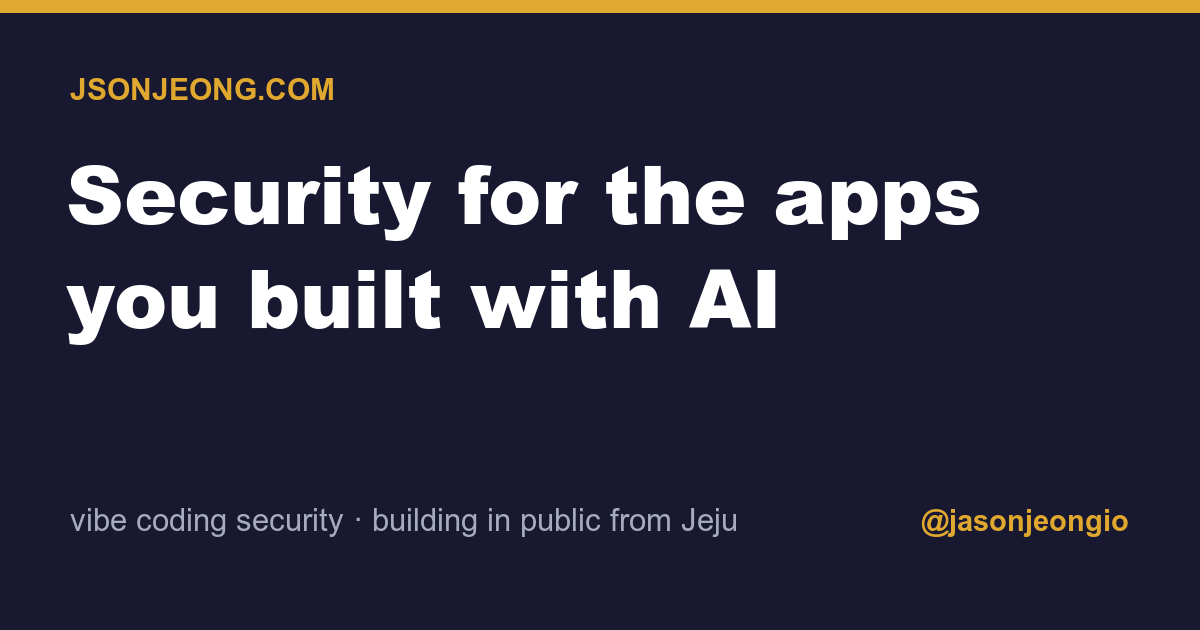
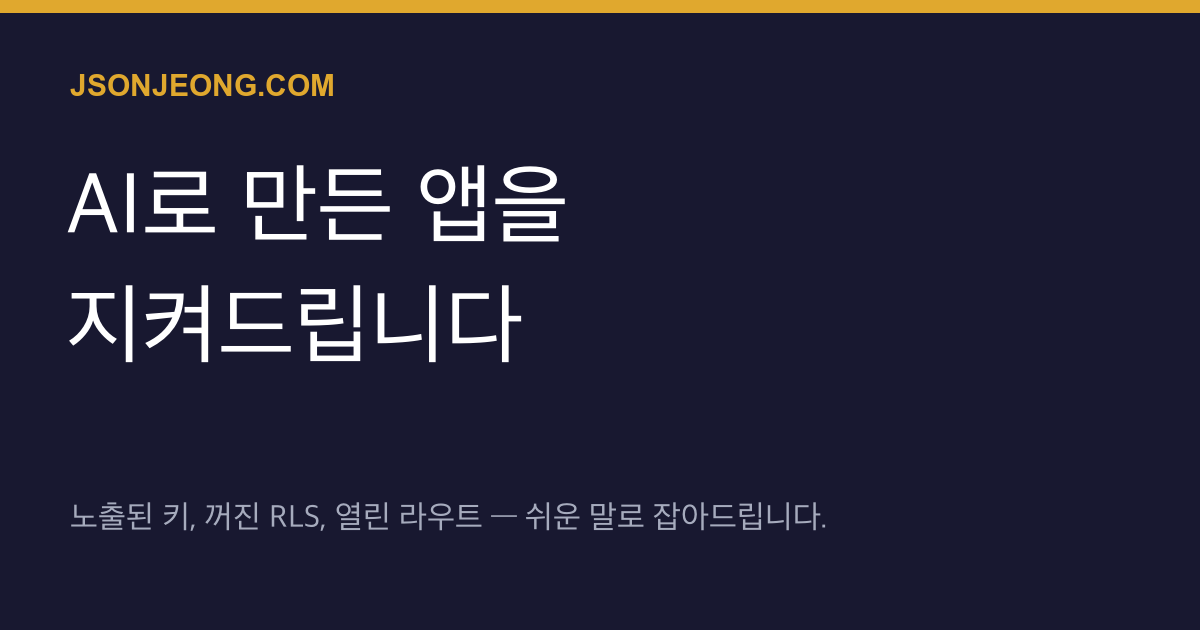
feat: localize landing page to Korean (full pivot)
Translate all landing copy to Korean: profile/bet/SnapDeck card, FAQ,
meta tags, JSON-LD descriptions, llms.txt, OG card. lang=ko, og:locale
ko_KR, structured-data inLanguage ko. Brand names kept (SnapDeck, Snap to It).

diff --git a/app/helpers/application_helper.rb b/app/helpers/application_helper.rb
@@ -1,31 +1,31 @@
 module ApplicationHelper
   SITE_NAME = "Jason Jeong"
-  SITE_TAGLINE = "AI teammates for vibe coders — starting with app security"
-  SITE_DESCRIPTION = "I build AI teammates and ship them as products, in public from Jeju. The first secures the apps you built with AI — exposed keys, disabled RLS, unguarded routes, caught in plain English."
+  SITE_TAGLINE = "바이브코더를 위한 AI 팀원 — 앱 보안부터"
+  SITE_DESCRIPTION = "AI 팀원을 만들어 제품으로, 제주에서 공개적으로 출시합니다. 첫 제품은 AI로 만든 앱을 지킵니다 — 노출된 키, 꺼진 RLS, 방치된 라우트를 쉬운 말로 잡아냅니다."
   SITE_PRODUCTION_URL = "https://jsonjeong.com".freeze
 
   # AEO/GEO: question-answer content surfaced both on-page (collapsible) and as
   # FAQPage structured data. Single source so the two never drift.
   FAQS = [
     {
-      q: "How do I know if my vibe-coded app is secure?",
-      a: "Most apps built with AI ship with the same handful of holes: row-level security left disabled, API keys bundled into the client, and routes with no auth check. A scanner like SnapDeck reads your project folder locally and flags them in plain English, before someone else finds them."
+      q: "내 바이브코딩 앱이 안전한지 어떻게 알 수 있나요?",
+      a: "AI로 만든 앱은 대부분 똑같은 구멍 몇 개를 안고 출시됩니다: 꺼진 RLS(행 수준 보안), 클라이언트에 박힌 API 키, 인증 체크 없는 라우트. SnapDeck 같은 스캐너가 프로젝트 폴더를 로컬에서 읽어, 누가 먼저 찾기 전에 쉬운 말로 알려줍니다."
     },
     {
-      q: "What are the most common security mistakes in AI-generated apps?",
-      a: "Disabled or misconfigured row-level security (anyone can read every user's row), secret keys exposed in the client bundle, admin routes with no authentication, and overly permissive CORS. These rarely show up in the AI's own code review because they live in config and infrastructure, not the code it wrote."
+      q: "AI가 만든 앱에서 가장 흔한 보안 실수는 무엇인가요?",
+      a: "꺼지거나 잘못 설정된 RLS(아무나 모든 사용자의 행을 읽음), 클라이언트 번들에 노출된 시크릿 키, 인증 없는 관리자 라우트, 너무 느슨한 CORS. 이것들은 AI가 짠 코드가 아니라 설정·인프라에 있어서 AI 자체 코드 리뷰에는 거의 안 잡힙니다."
     },
     {
-      q: "Does SnapDeck send my code to the cloud?",
-      a: "No. SnapDeck runs entirely on your machine. Your source code and your API keys never leave your computer."
+      q: "SnapDeck이 제 코드를 클라우드로 보내나요?",
+      a: "아니요. SnapDeck은 전적으로 내 컴퓨터에서 실행됩니다. 소스 코드와 API 키는 절대 컴퓨터를 떠나지 않습니다."
     },
     {
-      q: "Can a non-technical founder use it?",
-      a: "Yes. It is built for people who shipped with AI and don't read code. You drop your project folder, get the findings in plain English, and let it fix them for you."
+      q: "비개발자 창업자도 쓸 수 있나요?",
+      a: "네. 코드를 못 읽어도 AI로 출시한 사람을 위해 만들었습니다. 프로젝트 폴더를 끌어다 놓으면 쉬운 말로 진단해주고, 대신 고쳐주기까지 합니다."
     },
     {
-      q: "What is vibe coding?",
-      a: "Vibe coding is building software mostly by prompting AI tools rather than writing the code yourself. The speed is incredible; the security usually isn't. Closing that gap is the whole point of what I'm building."
+      q: "바이브코딩이 뭔가요?",
+      a: "바이브코딩은 직접 코드를 쓰기보다 AI 도구에 지시해서 소프트웨어를 만드는 방식입니다. 속도는 엄청나지만 보안은 대개 그렇지 않죠. 그 간극을 메우는 게 제가 만드는 것의 핵심입니다."
     }
   ].freeze
 
@@ -47,7 +47,7 @@ module ApplicationHelper
   end
 
   def og_image_url
-    "#{site_url}/og-card.png"
+    "#{site_url}/og-card.png?v=2"
   end
 
   # Site-wide JSON-LD entities (WebSite + Person + SoftwareApplication).
@@ -62,7 +62,7 @@ module ApplicationHelper
           "name" => SITE_NAME,
           "url" => "#{SITE_PRODUCTION_URL}/",
           "description" => SITE_DESCRIPTION,
-          "inLanguage" => "en",
+          "inLanguage" => "ko",
           "publisher" => { "@id" => "#{SITE_PRODUCTION_URL}/#person" }
         },
         {
@@ -72,8 +72,8 @@ module ApplicationHelper
           "alternateName" => "Json Jeong",
           "url" => "#{SITE_PRODUCTION_URL}/",
           "image" => "#{SITE_PRODUCTION_URL}/icon.png",
-          "jobTitle" => "Founder building AI teammates · app security for vibe coders",
-          "description" => "Founder in Jeju, South Korea. I build AI teammates and ship them as products in public — starting with security tools that help vibe coders find the holes in apps they built with AI.",
+          "jobTitle" => "AI 팀원을 만드는 창업자 · 바이브코더를 위한 앱 보안",
+          "description" => "대한민국 제주의 창업자. AI 팀원을 만들어 제품으로 공개적으로 출시합니다 — 바이브코딩으로 만든 앱의 구멍을 찾아주는 보안 도구부터 시작합니다.",
           "address" => { "@type" => "PostalAddress", "addressLocality" => "Jeju", "addressCountry" => "KR" },
           "knowsAbout" => [ "AI agents", "AI automation", "application security", "vibe coding", "row-level security", "Supabase", "Ruby on Rails" ],
           "sameAs" => [ "https://x.com/jasonjeongio", "https://www.threads.net/@snapplug.app" ]
@@ -84,7 +84,7 @@ module ApplicationHelper
           "name" => "SnapDeck",
           "applicationCategory" => "SecurityApplication",
           "operatingSystem" => "macOS",
-          "description" => "A desktop security scanner for apps built with AI. Drop your project folder and SnapDeck finds exposed keys, disabled row-level security, and unguarded routes in plain English — locally, so your keys never leave your machine.",
+          "description" => "AI로 만든 앱을 위한 데스크톱 보안 스캐너. 프로젝트 폴더를 끌어다 놓으면 SnapDeck이 노출된 키, 꺼진 RLS, 방치된 라우트를 쉬운 말로 찾아냅니다 — 로컬에서 실행되어 키가 컴퓨터를 떠나지 않습니다.",
           "offers" => { "@type" => "Offer", "price" => "0", "priceCurrency" => "USD" },
           "creator" => { "@id" => "#{SITE_PRODUCTION_URL}/#person" }
         }

diff --git a/app/controllers/dashboard_controller.rb b/app/controllers/dashboard_controller.rb
@@ -9,12 +9,12 @@ class DashboardController < ApplicationController
 
   PROFILE = {
     name: "Json Jeong",
-    location: "Jeju, South Korea",
-    revenue: "$0/month",
-    quote: "I build AI teammates for a living in Korea. Now I'm shipping them as products, in public — starting with the one that secures the apps you vibe-coded.",
+    location: "대한민국 제주",
+    revenue: "월 매출 0원",
+    quote: "한국에서 AI 팀원을 만드는 일을 합니다. 이제 그걸 제품으로, 공개적으로 출시합니다 — 바이브코딩으로 만든 앱을 지켜주는 것부터.",
     newsletter_count: "1",
     newsletter_name: "Snap to It",
-    newsletter_tagline: "What I shipped, what broke, and the security holes I keep finding. No fluff.",
+    newsletter_tagline: "무엇을 출시했고, 무엇이 터졌고, 계속 발견하는 보안 구멍들. 군더더기 없이.",
     threads_url: "https://www.threads.net/@snapplug.app",
     x_url: "https://x.com/jasonjeongio"
   }.freeze
@@ -25,25 +25,25 @@ class DashboardController < ApplicationController
     total_days: 90,
     current_mrr_usd: 0,
     goal_mrr_usd: 1_000,
-    headline: "The Public Bet",
-    promise: "$0 → $1,000 MRR in 90 days.",
-    rules: "No ads, no audience, no shortcuts. Miss it and quote-tweet me forever."
+    headline: "공개 도전",
+    promise: "90일 안에 월 0원 → $1,000 MRR.",
+    rules: "광고 없이, 청중 없이, 편법 없이. 실패하면 영원히 인용해서 놀려도 됩니다."
   }.freeze
 
   SERVICES = [
     Service.new(
       name: "SnapDeck",
-      tagline: "The security net for the apps you built with AI.",
-      subline: "RLS left wide open, keys exposed in the bundle, routes anyone can hit — SnapDeck catches it in plain English, before someone else does.",
-      trust: "Runs on your machine. Your keys never leave.",
-      concept: "Security scanner",
+      tagline: "AI로 만든 앱을 위한 보안 안전망.",
+      subline: "활짝 열린 RLS, 번들에 노출된 키, 아무나 접근하는 라우트 — SnapDeck이 누가 먼저 찾기 전에 쉬운 말로 잡아냅니다.",
+      trust: "내 컴퓨터에서 실행됩니다. 키는 절대 밖으로 나가지 않습니다.",
+      concept: "보안 스캐너",
       demo_video: "/snapdeck-demo.mp4?v=2",
       demo_poster: "/snapdeck-demo-poster.jpg",
       emoji: "🔒",
       status: :planning,
       mrr_usd: 0,
       path: nil,
-      cta_label: "Get early access →",
+      cta_label: "얼리 액세스 신청 →",
       cta_source: "snapdeck_card"
     )
   ].freeze

diff --git a/test/controllers/dashboard_controller_test.rb b/test/controllers/dashboard_controller_test.rb
@@ -9,6 +9,6 @@ class DashboardControllerTest < ActionDispatch::IntegrationTest
     assert_match '"@type":"FAQPage"', response.body
     assert_match '"@type":"Person"', response.body
     # FAQ content is present in the DOM (collapsible, but crawlable)
-    assert_match "How do I know if my vibe-coded app is secure?", response.body
+    assert_match "내 바이브코딩 앱이 안전한지 어떻게 알 수 있나요?", response.body
   end
 end